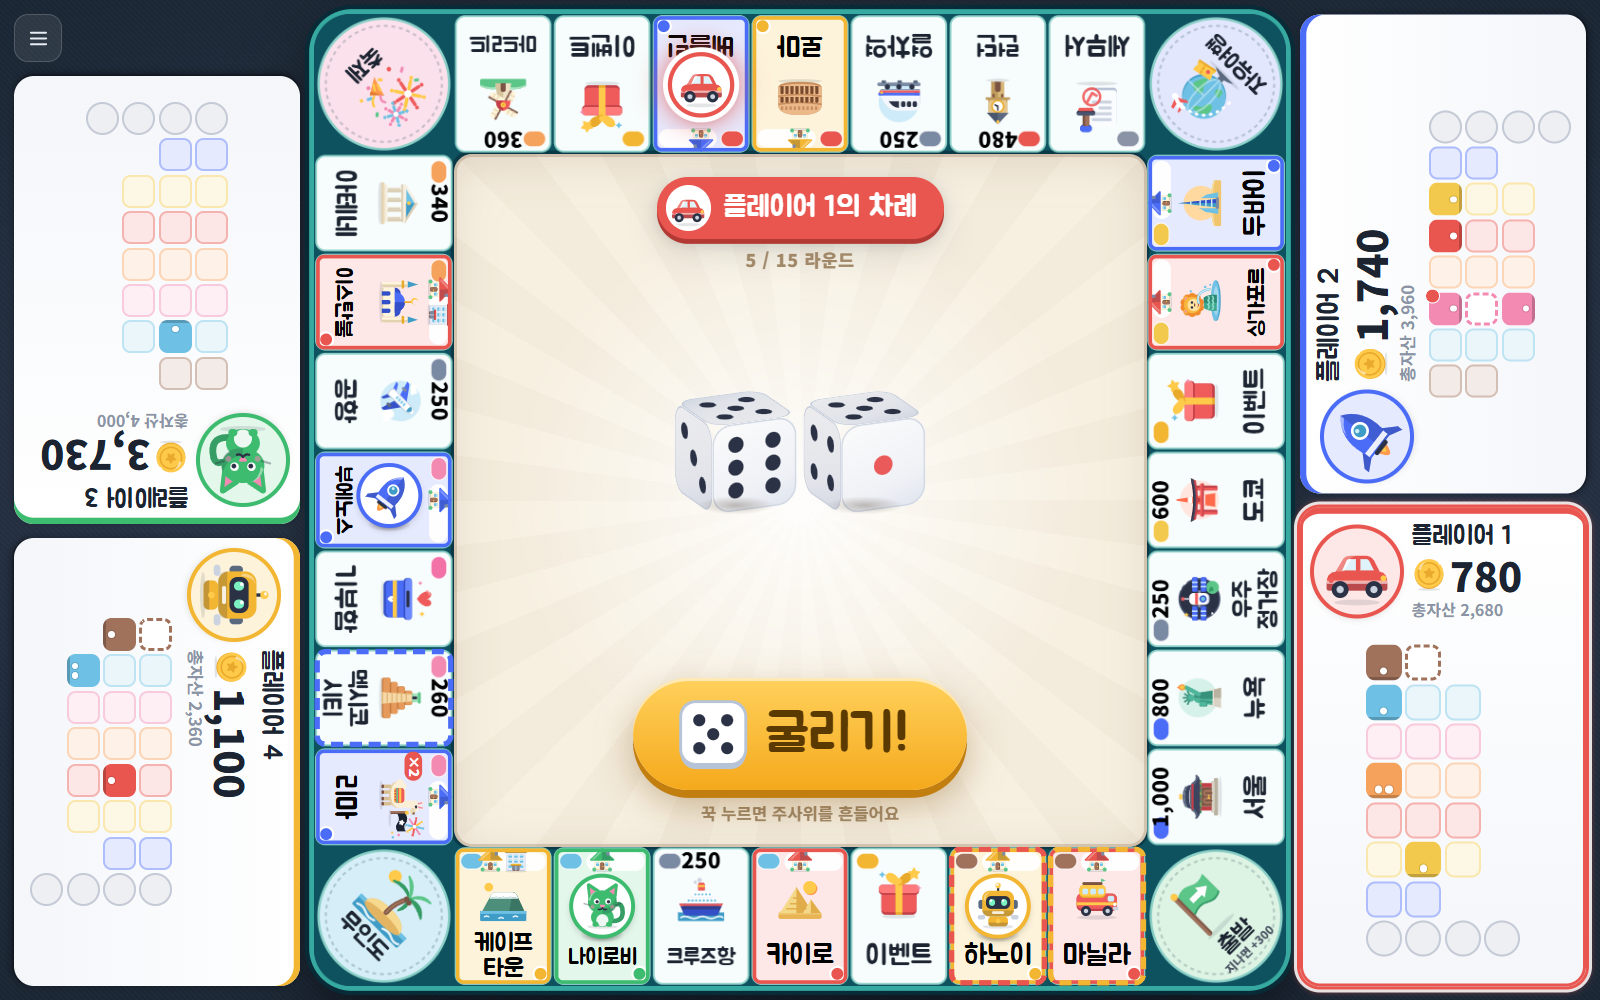
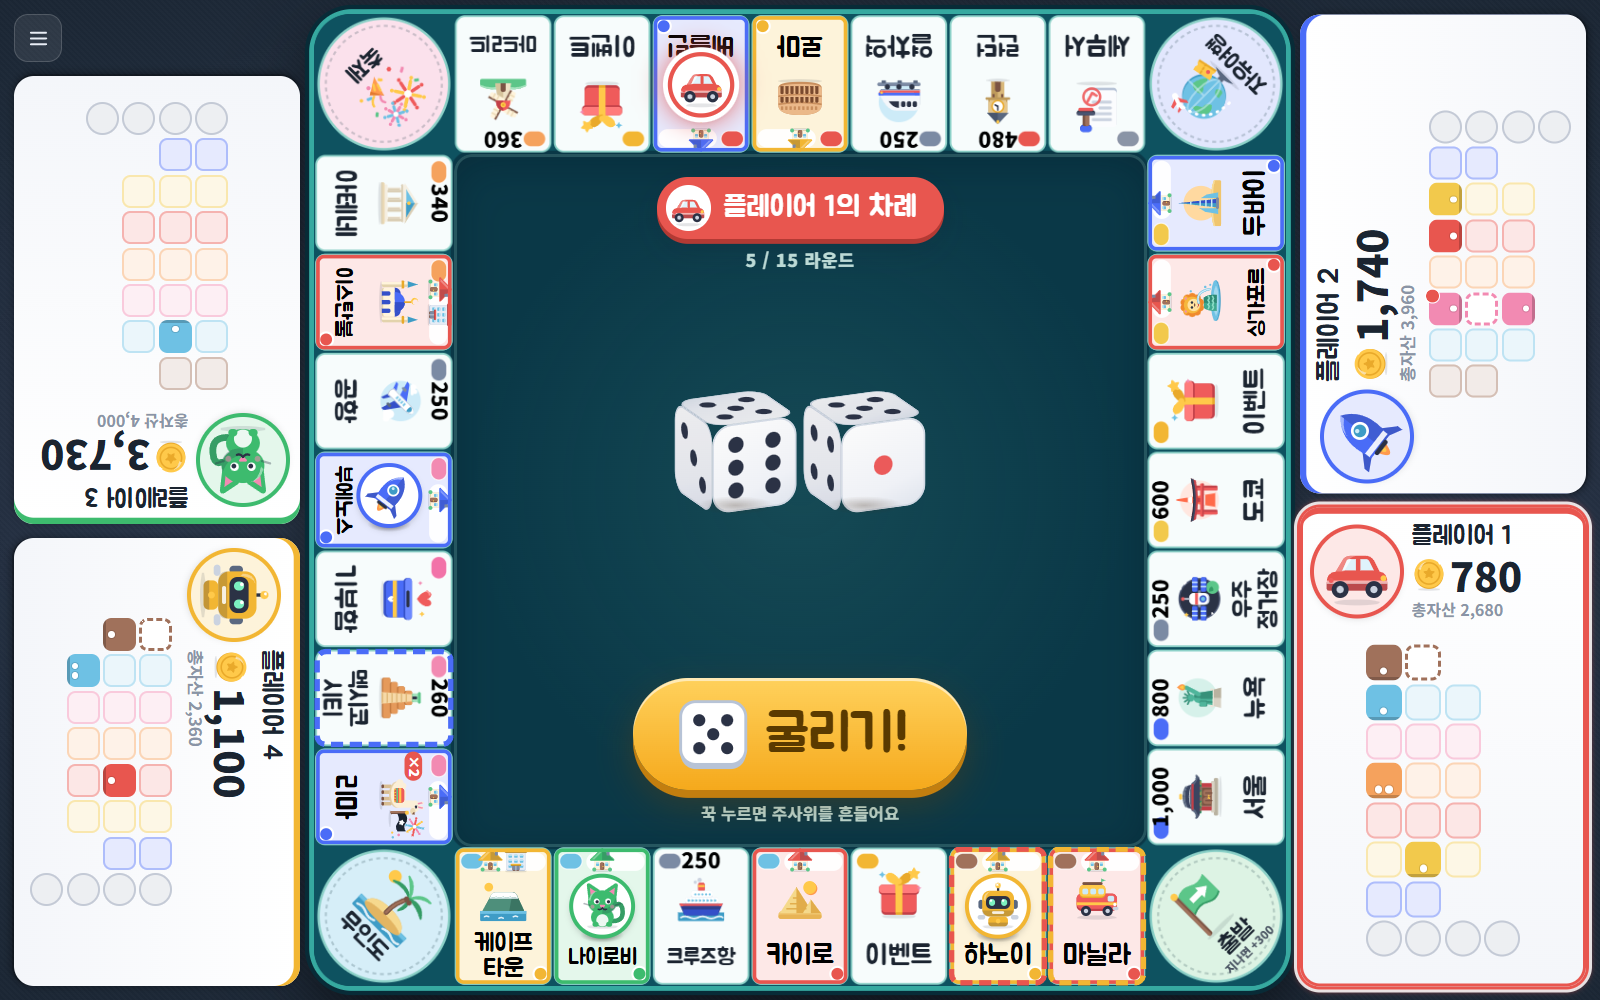
fix: darken the stage and add WebView renderer comparison
Replace the always-bright central stage with a dark travel-map surface while
preserving prompt contrast. Add a debug Gradle flag for a software WebView View
layer before Capacitor loads content, so normal and compatibility APKs can
isolate device-specific white occlusion without changing game assets.

Validated 348 unit tests, three focused browser regressions, web build,
Android debug and unsigned release assembly. Both debug APKs have matching
assets and signatures and differ only in the renderer flag. Tablet result is
pending device verification.

Changed region(s): [[0.2812, 0.155, 0.7188, 0.868]]

diff --git a/src/styles/stage.css b/src/styles/stage.css
@@ -13,12 +13,11 @@
   inset: 0;
   border-radius: calc(var(--u) * 0.6);
   background:
-    radial-gradient(circle at 50% 50%, rgba(255, 255, 255, 0.9) 0%, rgba(255, 255, 255, 0) 60%),
-    repeating-conic-gradient(from 0deg at 50% 50%, rgba(160, 113, 91, 0.045) 0deg 7.5deg, rgba(0, 0, 0, 0) 7.5deg 15deg),
-    #F7F0E1;
+    radial-gradient(circle at 50% 48%, rgba(81, 168, 160, 0.16), transparent 66%),
+    #0A3847;
   box-shadow:
-    inset 0 0 0 calc(var(--u) * 0.1) rgba(140, 111, 78, 0.28),
-    inset 0 calc(var(--u) * 0.25) calc(var(--u) * 1.4) rgba(120, 90, 60, 0.16);
+    inset 0 0 0 calc(var(--u) * 0.1) rgba(139, 208, 199, 0.22),
+    inset 0 calc(var(--u) * 0.25) calc(var(--u) * 1.4) rgba(2, 24, 33, 0.35);
 }
 
 .stage-rot {
@@ -74,7 +73,7 @@
   font-size: max(11px, calc(var(--u) * 0.58));
   font-weight: 800;
   letter-spacing: 0.04em;
-  color: #A08868;
+  color: #BCDAD6;
 }
 
 .st-rank {
@@ -83,10 +82,10 @@
   gap: calc(var(--u) * 0.3);
   padding: calc(var(--u) * 0.15) calc(var(--u) * 0.4);
   border-radius: var(--r-pill);
-  background: rgba(27, 36, 48, 0.08);
+  background: rgba(255, 255, 255, 0.1);
 }
 .st-rank.is-on { display: flex; }
-.st-rank .rk { display: inline-flex; align-items: center; gap: calc(var(--u) * 0.12); font-weight: 900; color: var(--ink-2); }
+.st-rank .rk { display: inline-flex; align-items: center; gap: calc(var(--u) * 0.12); font-weight: 900; color: #D9EAE8; }
 .st-rank .rk-tok { width: calc(var(--u) * 0.95); height: calc(var(--u) * 0.95); min-width: 16px; min-height: 16px; }
 .stage.has-big .st-rank { display: none; }
 
@@ -191,7 +190,7 @@
 .st-thinking {
   display: none;
   font-weight: 800;
-  color: var(--ink-3);
+  color: #C9DFDB;
 }
 .st-thinking.is-on { display: block; }
 @keyframes lr-blink { 50% { opacity: 0.4; } }
@@ -418,13 +417,11 @@
   0%, 100% { opacity: 0; }
   35% { opacity: 1; }
 }
-.native-webview .stage-rot,
-.native-webview .st-prompt { will-change: auto; }
 .native-webview .roll-btn::before { content: none; animation: none; }
 @media (prefers-reduced-motion: reduce) {
   .roll-btn::before { animation: none; }
 }
-.roll-hint { font-size: max(12px, calc(var(--u) * 0.55)); color: #A08868; font-weight: 700; }
+.roll-hint { font-size: max(12px, calc(var(--u) * 0.55)); color: #BCDAD6; font-weight: 700; }
 .pc-roll .timer-ring { position: absolute; right: calc(var(--u) * -0.6); top: auto; bottom: calc(var(--u) * 2.6); }
 
 /* Lists (festival / upgrade / debt) */

diff --git a/e2e/stage-surface.spec.ts b/e2e/stage-surface.spec.ts
@@ -1,0 +1,28 @@
+import { expect, test } from '@playwright/test';
+
+test('the Roll and purchase views use a dark stage with a contained card', async ({ page }) => {
+  await page.emulateMedia({ reducedMotion: 'reduce' });
+  await page.goto('/?dev=1');
+  await expect(page.locator('#app')).toHaveAttribute('data-screen', 'title');
+  await page.evaluate(() => {
+    const hook = window.__lotAndRoll!;
+    hook.setAnimSpeed(0);
+    hook.setPromptTimer(0);
+    hook.startGame(hook.demoSettings(4, false), 31);
+  });
+  await expect(page.locator('.roll-btn')).toBeVisible();
+  await expect(page.locator('.stage-bg')).toHaveCSS('background-color', 'rgb(10, 56, 71)');
+  await page.evaluate(async () => {
+    await window.__lotAndRoll!.whenIdle();
+    await window.__lotAndRoll!.autoStep();
+  });
+  await expect.poll(() => page.evaluate(() => window.__lotAndRoll!.getState()!.phase.kind)).toBe('buy');
+  const stage = await page.locator('.stage').boundingBox();
+  const card = await page.locator('.st-prompt .pcard').boundingBox();
+  expect(stage).not.toBeNull();
+  expect(card).not.toBeNull();
+  expect(card!.x).toBeGreaterThanOrEqual(stage!.x - 1);
+  expect(card!.y).toBeGreaterThanOrEqual(stage!.y - 1);
+  expect(card!.x + card!.width).toBeLessThanOrEqual(stage!.x + stage!.width + 1);
+  expect(card!.y + card!.height).toBeLessThanOrEqual(stage!.y + stage!.height + 1);
+});

diff --git a/e2e/native-compat.spec.ts b/e2e/native-compat.spec.ts
@@ -11,7 +11,7 @@ test('native WebView mode avoids full-screen navigation layers', async ({ page }
   await expect(page.locator('.screen-ghost')).toHaveCount(0);
 });
 
-test('native WebView mode keeps Roll usable without persistent stage layers', async ({ page }) => {
+test('native WebView mode keeps Roll usable without its repeating pulse', async ({ page }) => {
   await page.goto('/?dev=1');
   await expect(page.locator('#app')).toHaveAttribute('data-screen', 'title');
   await page.evaluate(() => {
@@ -23,8 +23,7 @@ test('native WebView mode keeps Roll usable without persistent stage layers', as
   });
   const roll = page.locator('.roll-btn');
   await expect(roll).toBeVisible();
-  await expect(page.locator('.stage-rot')).toHaveCSS('will-change', 'auto');
-  await expect(page.locator('.st-prompt')).toHaveCSS('will-change', 'auto');
+  await expect(page.locator('.stage-bg')).toHaveCSS('background-color', 'rgb(10, 56, 71)');
   expect(await roll.evaluate((el) => getComputedStyle(el, '::before').content)).toBe('none');
   const panel = page.locator('.pp.is-turn:not(.is-cpu) .pp-card').first();
   expect(await panel.evaluate((el) => getComputedStyle(el, '::before').animationName)).toBe('none');

diff --git a/src/main.ts b/src/main.ts
@@ -78,8 +78,7 @@ function hideSplash(): void {
 }
 
 async function boot(): Promise<void> {
-  // Android WebView can lose large persistent compositor layers on some GPUs. Keep the
-  // native-only compatibility styles in place before the first screen is mounted.
+  // Apply native-only static cues before the first screen is mounted.
   document.documentElement.classList.toggle('native-webview', isNative());
   // Device: restore anything the WebView evicted from localStorage (bounded wait).
   await withTimeout(kvHydrate([PREFS_KEY, SAVE_KEY, SAVE_BACKUP_KEY]), 800);

diff --git a/android/app/src/main/java/com/bigssu/lotandroll/MainActivity.java b/android/app/src/main/java/com/bigssu/lotandroll/MainActivity.java
@@ -27,14 +27,22 @@ public class MainActivity extends BridgeActivity {
   public void onCreate(Bundle savedInstanceState) {
     registerPlugin(FrameRatePlugin.class);
     super.onCreate(savedInstanceState);
-    // Match the felt behind web content, including frames before WebView has painted.
-    if (getBridge() != null && getBridge().getWebView() != null) {
-      getBridge().getWebView().setBackgroundColor(getColor(R.color.table_bg));
-    }
     WindowCompat.setDecorFitsSystemWindows(getWindow(), false);
     getWindow().addFlags(WindowManager.LayoutParams.FLAG_KEEP_SCREEN_ON);
     hideSystemBars();
     requestLowRefreshRate();
+  }
+
+  @Override
+  protected void load() {
+    // The WebView is inflated before BridgeActivity calls load(). A debug build can select
+    // software View drawing to isolate device-specific compositor corruption.
+    View webView = findViewById(com.getcapacitor.android.R.id.webview);
+    if (webView != null) {
+      if (BuildConfig.SOFTWARE_WEBVIEW) webView.setLayerType(View.LAYER_TYPE_SOFTWARE, null);
+      webView.setBackgroundColor(getColor(R.color.table_bg));
+    }
+    super.load();
   }
 
   @Override

diff --git a/docs/RELEASE.md b/docs/RELEASE.md
@@ -66,6 +66,11 @@ adb shell am start -n com.bigssu.lotandroll/.MainActivity
 ```
 
 웹 코드를 고칠 때마다 `npm run build && npx cap sync android` 를 다시 실행해야 앱에 반영됩니다.
+기기별 흰 화면 진단에는 `./gradlew clean assembleDebug -PsoftwareWebView=true`로 WebView
+소프트웨어 레이어 APK를 만들 수 있습니다. 일반 빌드는 이 옵션 없이 하드웨어 경로를 사용합니다.
+두 빌드 모두 Gradle 출력 이름이 `LandPoly-debug.apk`이므로, 소프트웨어판을
+`LandPoly-software-debug.apk`로 복사해 보관한 뒤 일반판을 빌드하세요.
+두 APK는 같은 앱 ID와 Debug 서명이므로 설치 전에 필요한 진행 상황을 저장하세요.
 
 ---
 
